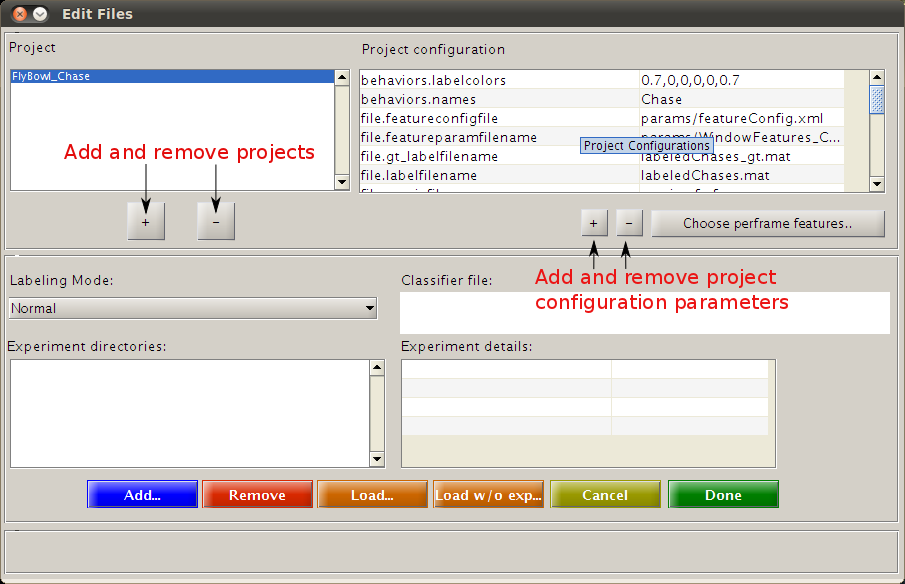
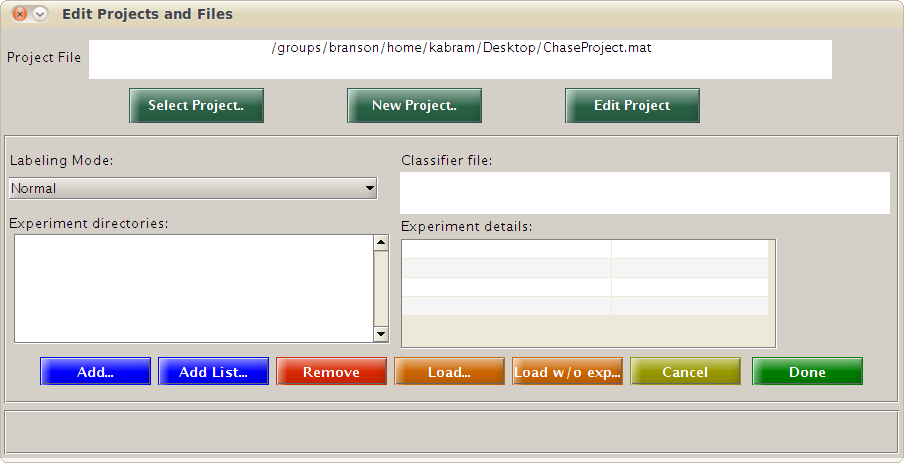
Documentation updates

diff --git a/docs/NewProject.html b/docs/NewProject.html
@@ -54,8 +54,6 @@ strong.regular-font {
 <h2><a id="Contents">Contents</a></h2>
 <ul>
 <li><a href="#ProjectConfigurationDialog">Project Configuration Dialog</a></li>
-<li><a href="#ProjectConfigurationParameters">Project Parameters</a></li>
-<li> <a href="#ExampleFiles">Example Files</a></li>
 </ul>
 
 <hr class="h2-divider">
@@ -63,18 +61,62 @@ strong.regular-font {
 <h2><a id="ProjectConfigurationDialog">Project Configuration Dialog</a></h2>
 
 <p>For <b>each behavior</b>, you need a <b>separate</b> JAABA project. To add a new project,
-	click on the '+' sign below the projects list in the initial JAABA edit
+	click on the <i>New Project</i> button in the initial JAABA edit
 	project and experiments interface. </p>
 	
 	<center><img src="images/EditFilesInitial.png"></center>
+	<center><i>Screenshot of Edit Projects and Files interface</i></center>
 	
-<p>	This will pop up a dialog box, where you
-	can enter  the name of the project and the configuration file to store the
-	project settings. The projects configurations are stored in xml format. An
-	example xml project configuration file at the bottom of the page. Make sure that the name does not contain any special characters.</p> 
+<p>	This will open a Project Setup window. In this window, select the animal type for the project using the <i>Target Type</i> drop down menu and specify the name of the behavior for the project and the files that will be used by JAABA for this project. 
+	</p> 
+	<center><img src="images/ProjectSetup_filled.png"></center>
+	<center><i>Screenshot of the Project Setup interface</i></center>
 
-	<center><img src="images/NewProject.png"></center>
+<table border=1 style="margin-bottom:15px;margin-top:35px">
+<tr> <th>Field Name</th><th>Typical Value</th><th>Details</th> </tr>
+<tr> <td>Behavior Name</td><td >Chase</td><td>Name of the behavior</td> </tr>
 
+<tr> <td>Movie File Name</td><td >movie.ufmf</td><td>Name of the movie
+file. For each experiment, JAABA reads and shows this file from the experiment directory. </td> </tr>
+
+<tr> <td>file.trxfilename</td><td >trx.mat</td><td>Name of the mat file
+in which the tracks are stored. For each experiment, JAABA reads this file to find the animals trajectories. </td> </tr>
+
+<tr> <td>Label File Name</td><td
+>labeledChases.mat</td><td>File within the experiment directory
+where the labels for this project/behavior will be stored.</td> </tr>
+
+<tr> <td>Ground Truth Label File Name</td><td
+>labeledChases_gt.mat</td><td>File within the experiment directory
+where the <a href="GroundTruthing.html">ground truthing</a> labels for this project will be stored.</td> </tr>
+
+<tr> <td>Output/Score File Name</td><td
+>scoresChase.mat</td><td>File within the experiment directory
+where the output predictions for this project  will be stored.</td> </tr>
+
+</table>
+	<center><i>Details of the fields in the Project Setup interface</i></center>
+
+
+<p> Click <i>Done</i> to save the project and close the window. JAABA will ask for a location to save the project as a <i>mat</i> file. Once you create a project, you can continue working on this project, use <i>Select Project</i> button in the Edit Project and Files window to select this project file. Also, you can edit an existing project using <i>Edit Project</i> button after you select the project.  When creating a new project, you can copy the settings from an existing project using the <i>Copy Settings From </i> button.</p>
+
+<p> In JAABA, you can use output of previously trained behavior detectors as inputs for the current behavior. Use the <i>Add</i> and <i>Remove</i> buttons to specify the list of <a href="SavingAndLoading.html"/>saved classifiers</a> whose output you want to use as inputs. Note that the <a href=SavingAndLoading.html#Predictions>scores/predictions</a> for the classifiers should already be generated for all the experiments that you want to use for this project.
+
+</p>
+
+</body>
+
+<footer>
+<hr class="h1-divider">
+<center>
+<a href="index.html">JAABA Documentation Home</a> | <a href="https://groups.google.com/forum/?fromgroups#!forum/jaaba">jaaba@googlegroups.com</a> | <i>Last Updated November 28, 2012</i>
+</center>
+</footer>
+
+
+</html>
+
+<!--
 <p>The project configuration in the form of xml entries are shown in a table on the
 right of the project list which can also be edited. The left column of the table
 lists all the project parameters and right side gives the parameters value. The
@@ -150,16 +192,6 @@ the center of the arena</td> </tr>
 <tr> <td>perframe.landmark_params.arena_radius_mm</td><td>60</td><td> Radius of the arena</td> </tr>
 
 </table>
-
-<p> When creating a new project, you can copy parameters of an existing
-project. In the popup dialog that asks for the new project's name and the
-location of the project's configuration file, you can point to the location of
-the configuration file of the existing project in the "Copy Configuration
-settings from" field.
-</p>
-
-<hr class="h2-divider">
-
 <h2> <a id="ExampleFiles">Example Files</a></h2>
 
 Example project configuration file:
@@ -188,16 +220,7 @@ Example project configuration file:
    &lt/perframe&gt
 
 &lt/params&gt
-
 </pre>
-</body>
-
-<footer>
-<hr class="h1-divider">
-<center>
-<a href="index.html">JAABA Documentation Home</a> | <a href="https://groups.google.com/forum/?fromgroups#!forum/jaaba">jaaba@googlegroups.com</a> | <i>Last Updated November 28, 2012</i>
-</center>
-</footer>
 
 
-</html>
+-->
